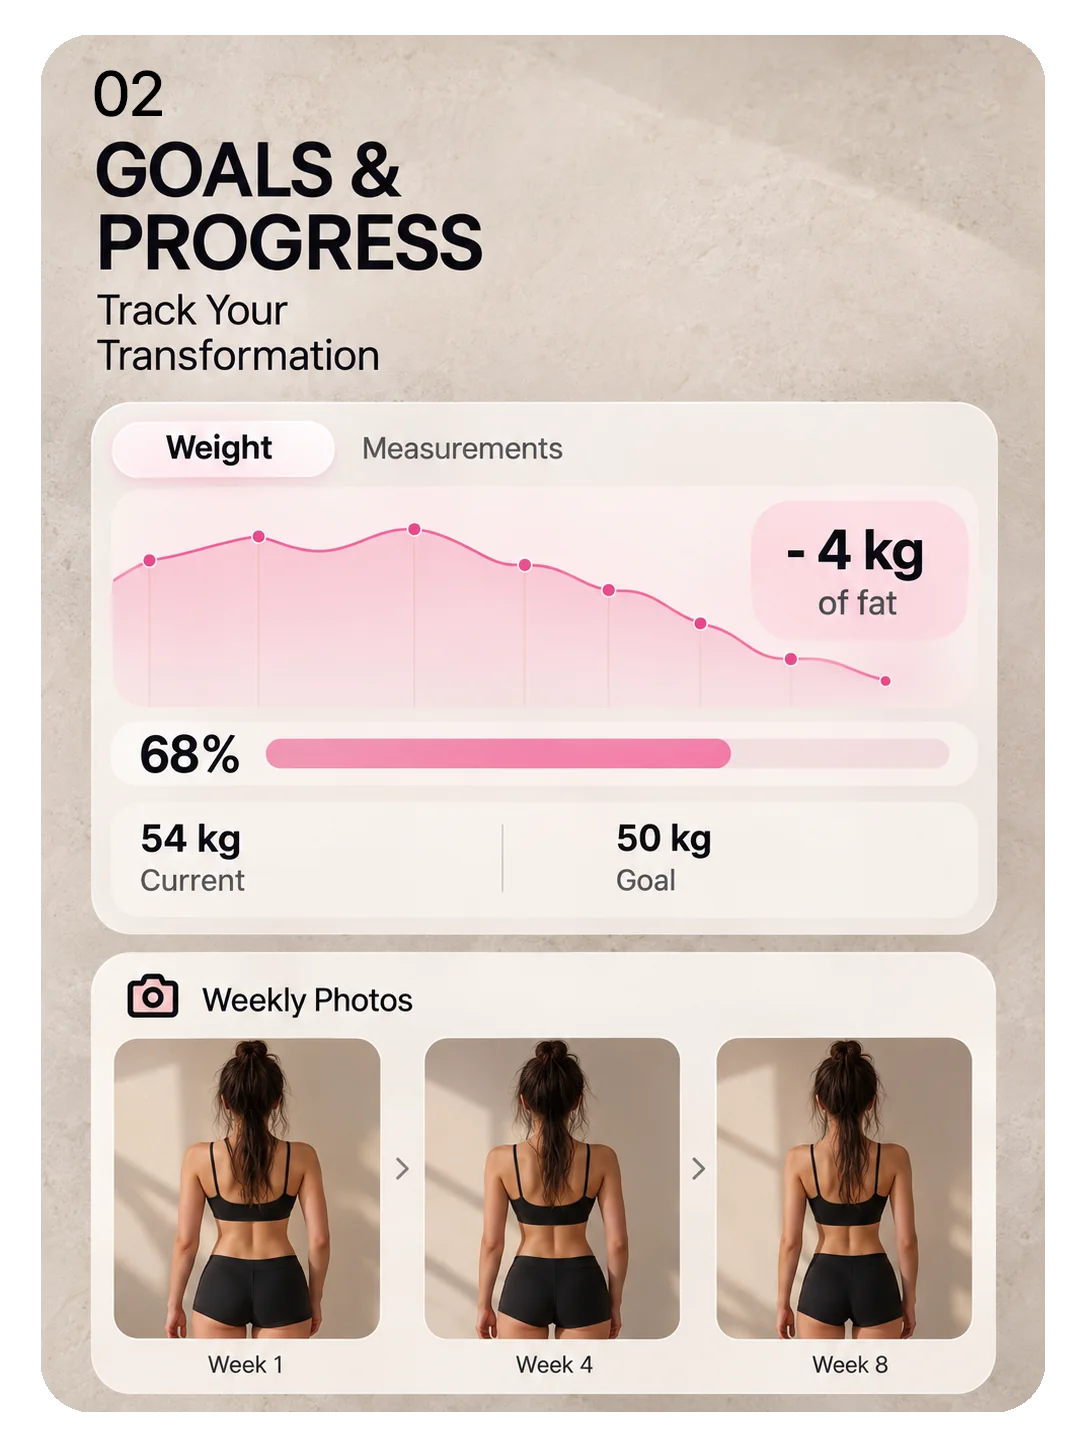
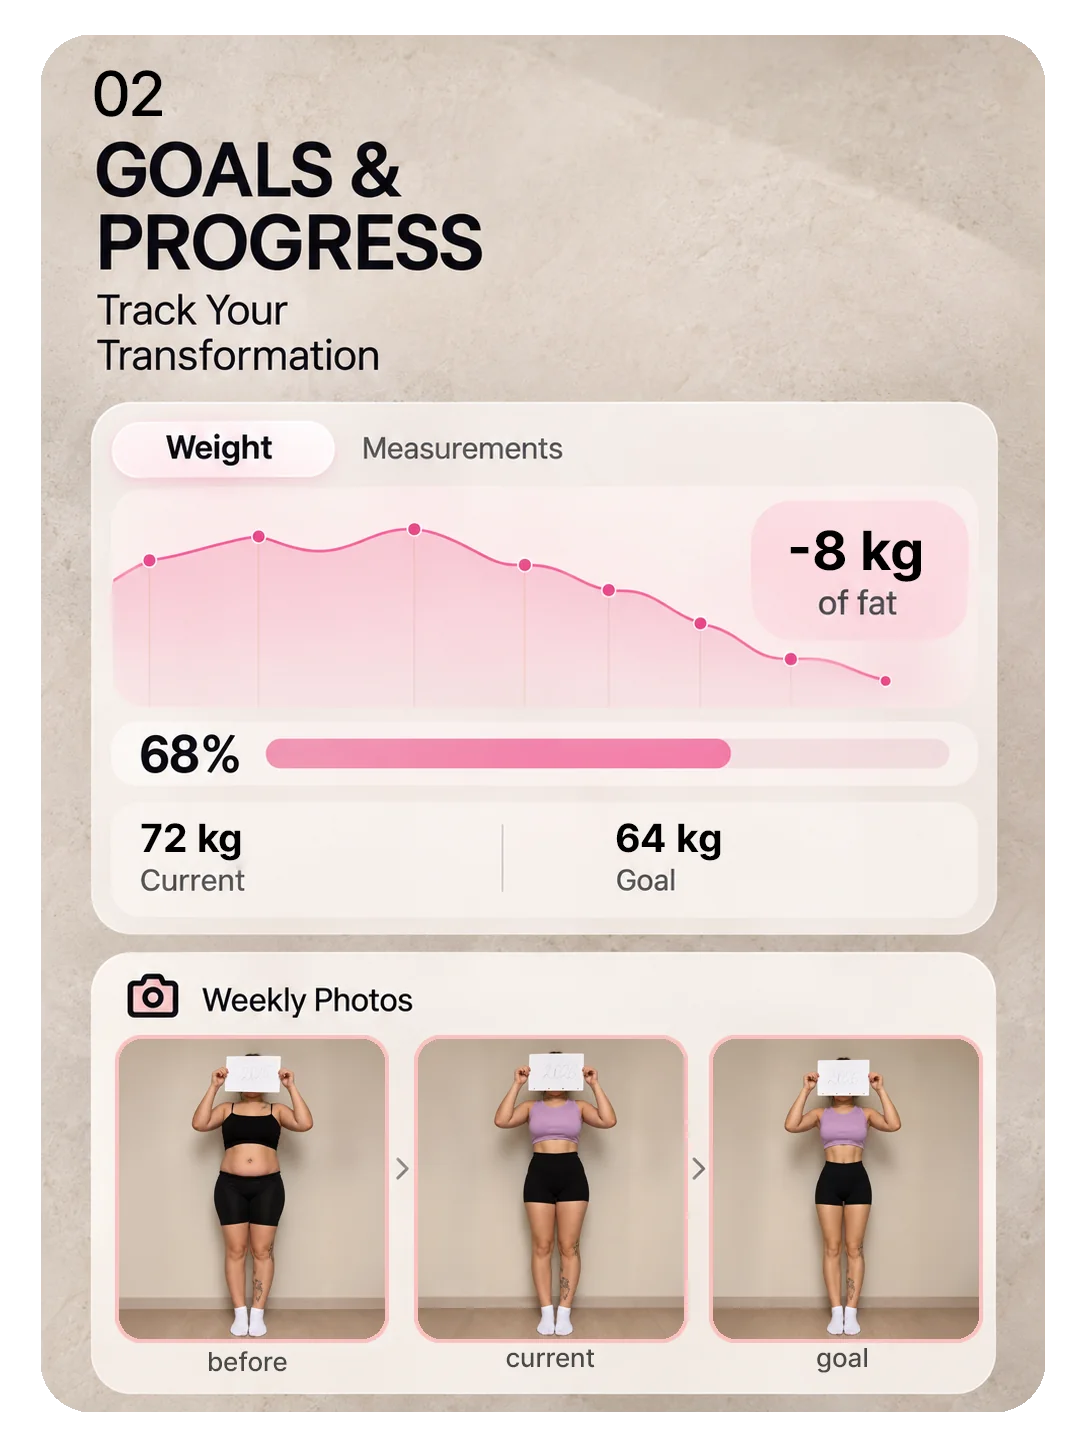
Membership section: new card02 art, rewritten heading, simplified CTAs
- Swap in the client's updated Goals & Progress card image.
- Heading becomes "Your Complete" (thin, black) / "Weight-Loss
  Toolkit." (bold, brand pink), replacing "Everything You Need, in
  One Membership".
- Membership and "Your Workout. Step by Step." CTA buttons now read
  "Full Access for 10 Days - €2.99" with the arrow icon, and the
  "Full access for 10 days · Cancel anytime" line beneath each is
  removed.

Claude-Session: https://claude.ai/code/session_01Gqp4hQjTvhLsd1JRyaJWz5

diff --git a/index.html b/index.html
@@ -172,7 +172,7 @@ src="https://www.facebook.com/tr?id=694270511068425&ev=PageView&noscript=1"
     <div class="video-section-bg"></div>
     <div class="section-inner">
       <div class="eyebrow">Membership</div>
-      <h2 class="h2">Everything You Need, <br class="membership-title-break"><span class="showcase-accent">in One Membership</span></h2>
+      <h2 class="h2">Your Complete<br class="membership-title-break"><span class="showcase-accent">Weight-Loss Toolkit.</span></h2>
       <p class="section-lead center">Training, nutrition, progress tracking, mindset &amp; online coach support - all in one place.</p>
 
       <div class="membership-carousel">
@@ -219,10 +219,9 @@ src="https://www.facebook.com/tr?id=694270511068425&ev=PageView&noscript=1"
 
       <div class="video-cta-wrap">
         <a href="#signup" class="btn btn-pill btn-primary btn-lg">
-          Join Now - €2.99
+          Full Access for 10 Days &bull; €2.99
           <svg class="hero-cta-arrow" viewBox="0 0 24 24" fill="none" stroke="currentColor" stroke-width="2" stroke-linecap="round" stroke-linejoin="round" aria-hidden="true"><path d="M5 12h14M13 6l6 6-6 6"/></svg>
         </a>
-        <div class="trust-row center">Full access for 10 days &nbsp;·&nbsp; Cancel anytime</div>
       </div>
     </div>
   </section>
@@ -318,10 +317,9 @@ src="https://www.facebook.com/tr?id=694270511068425&ev=PageView&noscript=1"
 
       <div class="video-cta-wrap">
         <a href="#signup" class="btn btn-pill btn-primary btn-lg">
-          Join Now - €2.99
+          Full Access for 10 Days &bull; €2.99
           <svg class="hero-cta-arrow" viewBox="0 0 24 24" fill="none" stroke="currentColor" stroke-width="2" stroke-linecap="round" stroke-linejoin="round" aria-hidden="true"><path d="M5 12h14M13 6l6 6-6 6"/></svg>
         </a>
-        <div class="trust-row center">Full access for 10 days &nbsp;·&nbsp; Cancel anytime</div>
       </div>
     </div>
   </section>

diff --git a/style.css b/style.css
@@ -573,7 +573,6 @@ body:has(#mobileMenuOverlay.visible) .topbar .topbar-link{ color:var(--ink-soft)
 .section-membership .section-lead{ color:var(--ink-soft); }
 .section-membership .membership-card-title{ color:var(--ink); }
 .section-membership .membership-card-text{ color:var(--ink-soft); }
-.section-membership .video-cta-wrap .trust-row{ color:var(--ink-soft); }
 .section-membership .membership-footnote{ color:var(--ink-soft); }
 .section-membership .membership-footnote::before{ background:rgba(75,98,69,0.35); }
 
@@ -770,7 +769,6 @@ body:has(#mobileMenuOverlay.visible) .topbar .topbar-link{ color:var(--ink-soft)
 
 .video-cta-wrap{ margin-top:30px; text-align:center; }
 .video-cta-wrap .btn{ display:inline-flex; gap:10px; }
-.video-cta-wrap .trust-row{ color:rgba(255,255,255,0.7); margin-top:12px; }
 
 /* ============ membership coverflow carousel ============ */
 .section-membership{ padding-top:70px; }
